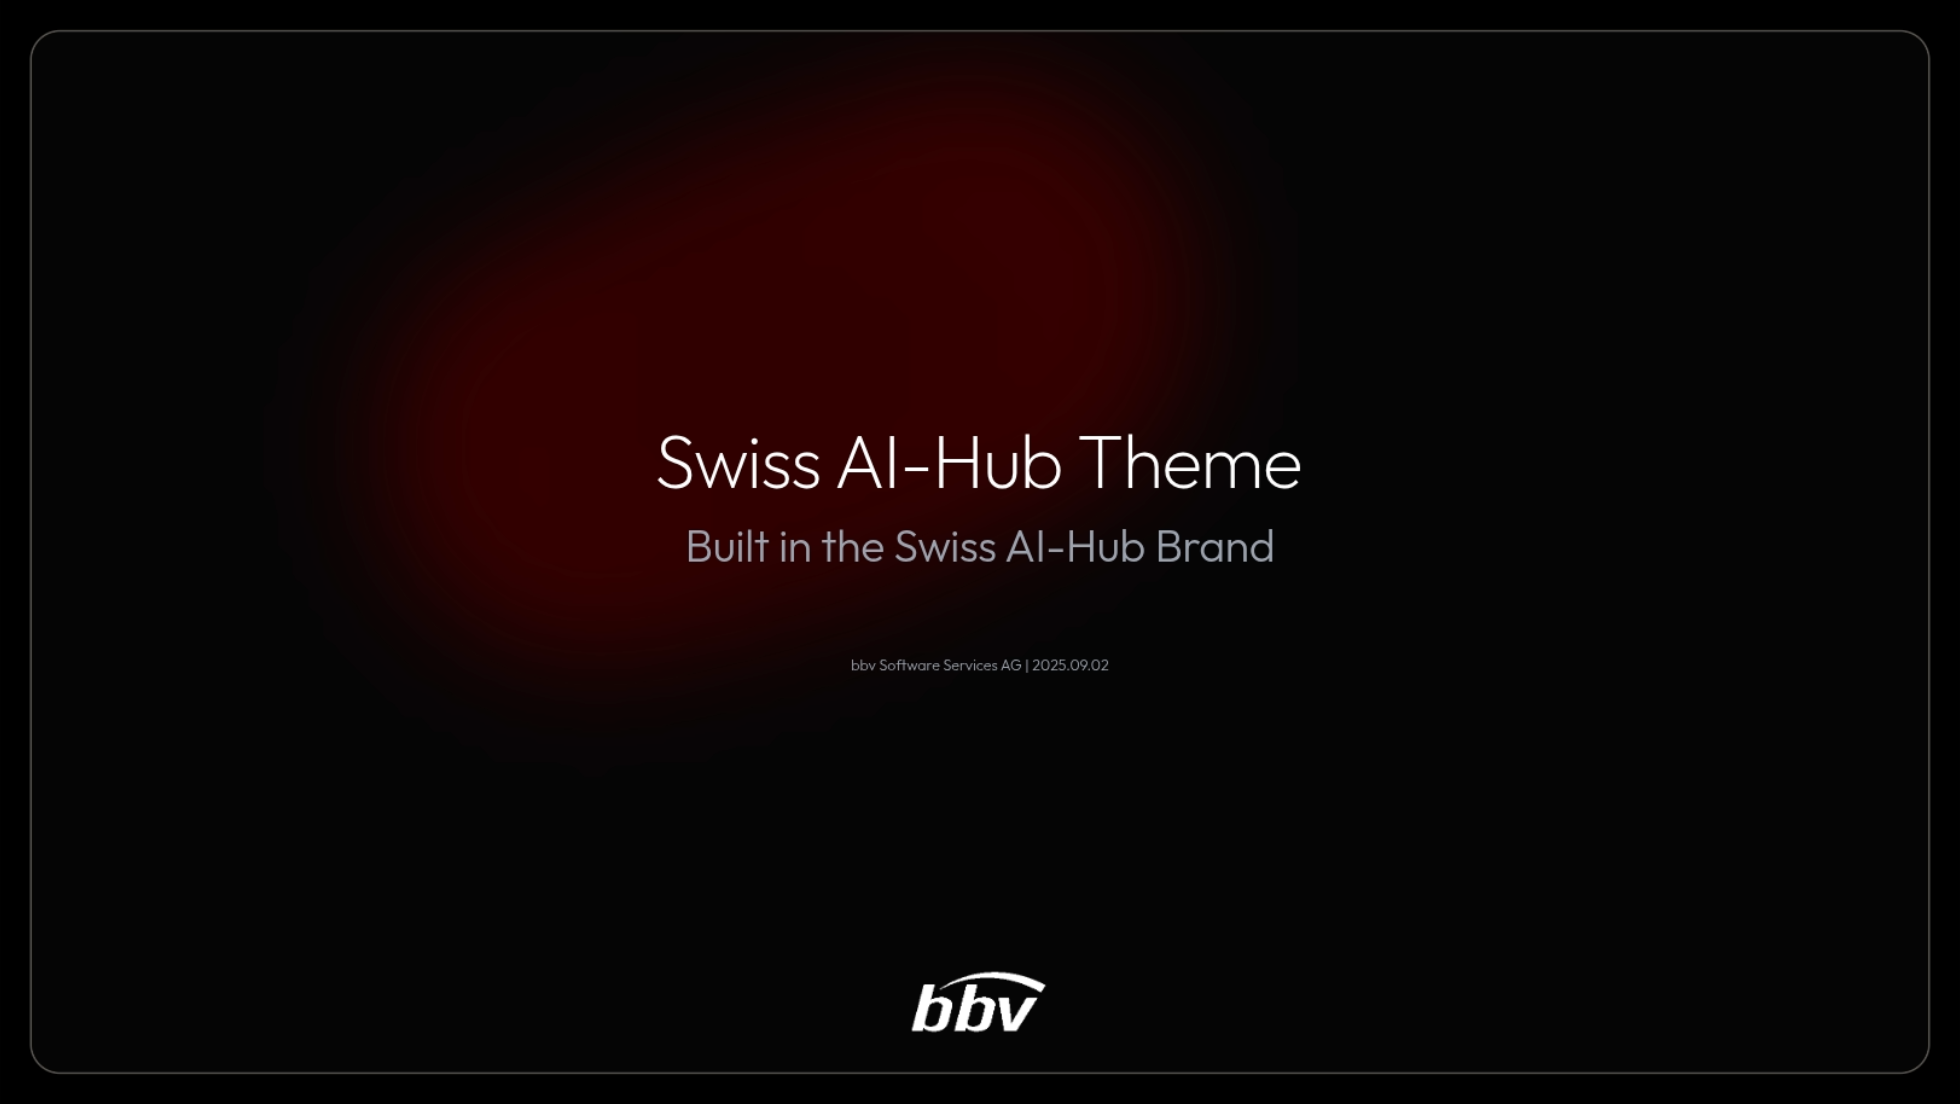
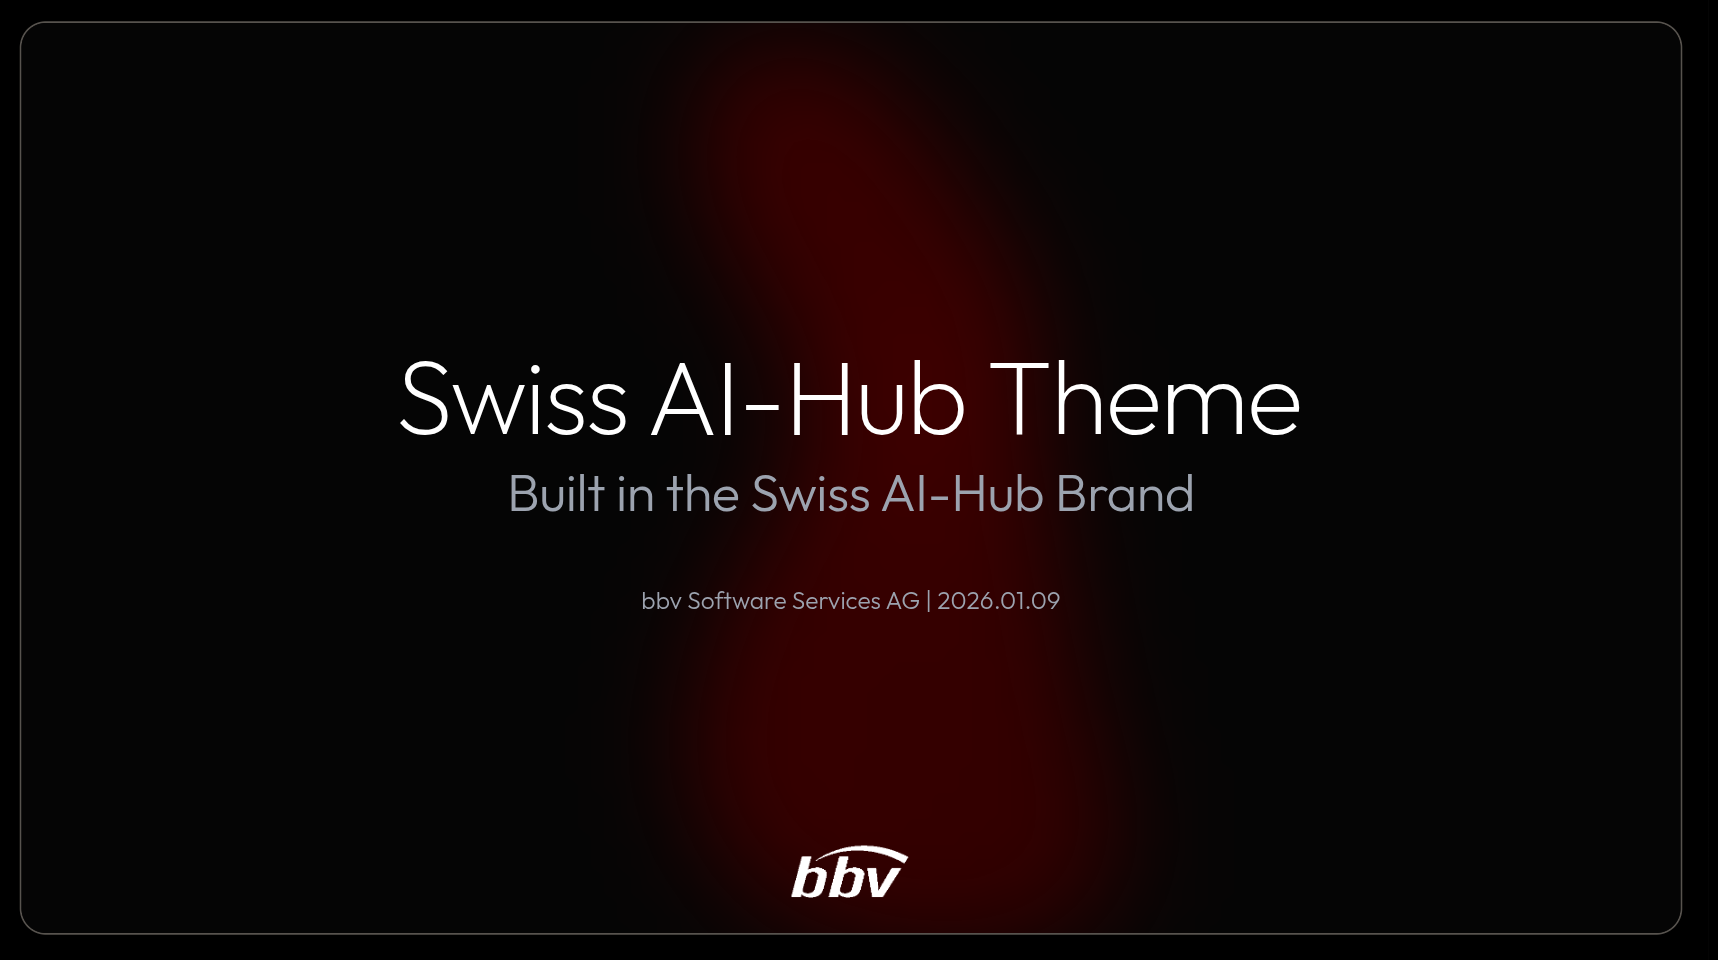
bump version to 0.0.4; update media assets

Changed region(s): [[0.1851, 0.125, 0.7712, 1.0], [0.0308, 0.0, 0.9563, 0.0312]]

diff --git a/layouts/section.vue b/layouts/section.vue
@@ -11,13 +11,13 @@
           <GradientBackground>
             <div class="h-full w-full flex flex-col items-center justify-between px-12 pb-8 pt-24">
               <div class="flex flex-col items-center gap-6">
-                <h3 class="text-center text-sm text-gray">
+                <h3 class="text-center text-xl text-gray">
                   {{ prefix }}
                 </h3>
-                <h1 class="pb-4 text-center text-5xl font-light">
+                <h1 class="pb-2 text-center text-6xl font-light">
                   {{ sectionTitle }}
                 </h1>
-                <h2 class="text-center text-xl text-gray">
+                <h2 class="text-center text-2xl text-gray">
                   {{ postfix }}
                 </h2>
               </div>

diff --git a/layouts/cover.vue b/layouts/cover.vue
@@ -7,7 +7,7 @@
         <div class="h-full w-full flex flex-col items-center justify-between px-12 pb-8 pt-24">
           <div class="slidev-layout cover flex flex-col items-center justify-center text-center">
             <slot />
-            <p class="pt-12 text-xs text-gray">
+            <p class="text-md pt-12 text-gray">
               bbv Software Services AG | {{ useDateFormat(new Date(), 'YYYY.MM.DD') }}
             </p>
           </div>

diff --git a/styles/layout.css b/styles/layout.css
@@ -1,14 +1,14 @@
 .slidev-layout {
-    font-size: 1.2rem;
+    font-size: 1.4rem;
 }
 
 .slidev-layout.cover {
   h1 {
-    @apply text-6xl font-200;
+    @apply text-8xl font-200;
   }
 
   h2 {
-    @apply text-4xl text-gray font-300;
+    @apply text-5xl text-gray font-300;
   }
 
   h1 + p {

diff --git a/components/default-footer.vue b/components/default-footer.vue
@@ -1,5 +1,5 @@
 <template>
-  <div class="w-full flex items-center justify-between px-12 text-xs text-gray">
+  <div class="text-xmd w-full flex items-center justify-between px-12 text-gray">
     <img
       src="/logo-white.png"
       class="h-6 opacity-60"

diff --git a/styles/index.css b/styles/index.css
@@ -47,7 +47,7 @@ html {
 /* Typography scale for consistency */
 h1 {
   font-weight: 300;
-  letter-spacing: -0.02em;
+  letter-spacing: -.02em;
 }
 
 h2 {
